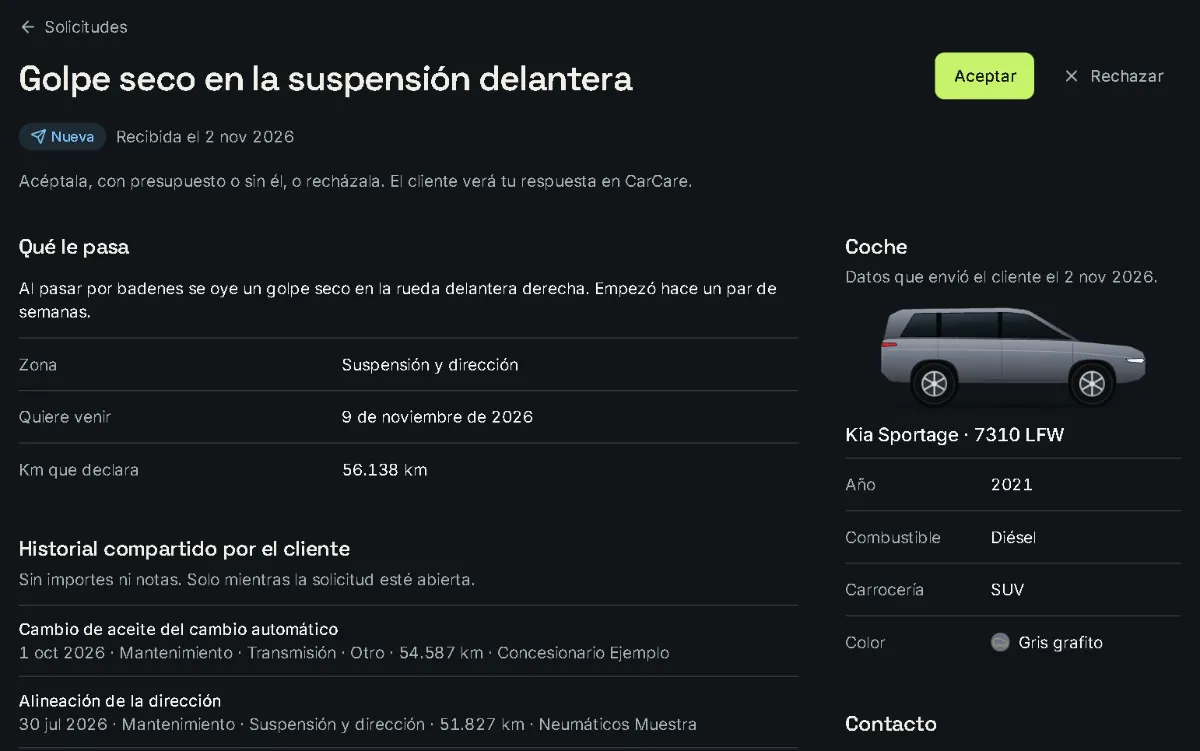
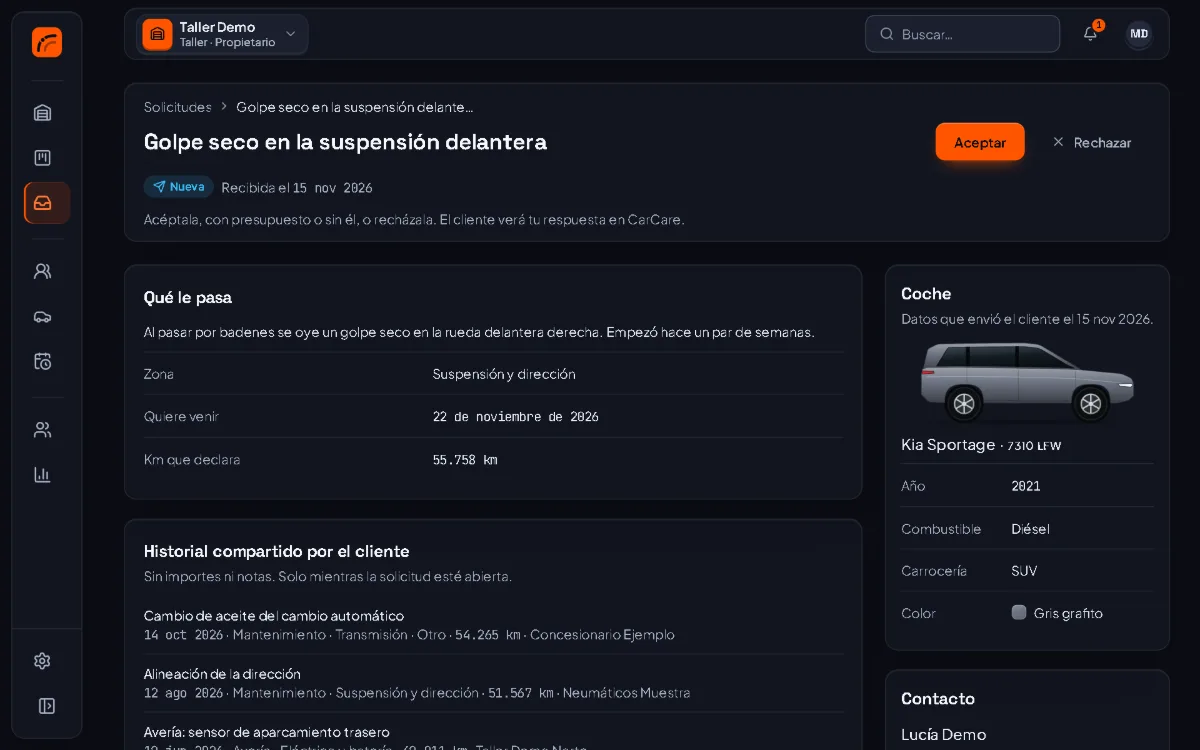
feat(portada): capturas rehechas con el aspecto «Apex Telemetry» y textos alternativos al día

diff --git a/frontend/src/features/landing/shots.ts b/frontend/src/features/landing/shots.ts
@@ -1,16 +1,17 @@
 /**
  * Capturas reales de la app (cuentas demo del DemoSeeder, datos ficticios) en `public/img/portada/`, en WebP de 1200
  * y 640 px de ancho y proporción 16:10. Se generaron con Playwright contra la API (tema oscuro, 1280 px, a 1,5x) y se
- * codificaron en WebP con el propio Chromium: ver el informe 2026-10-29-frontend-react-portada.
+ * codificaron en WebP con el propio Chromium: ver el informe 2026-10-29-frontend-react-portada. Rehechas el 16/11/2026
+ * con el aspecto «Apex Telemetry», sobre una demo recién sembrada (informe 2026-11-16-…-fase-4, `portada.mjs`).
  */
 export const SHOTS = {
   zonas: {
     file: 'particular-zonas',
-    alt: 'Ficha de un Kia Sportage en CarCare: el coche en 3D con un punto en cada zona y, al lado, la lista de zonas con su estado; el motor sale como «Próximo» y la mayoría «Sin datos» o «Sin recordatorio».',
+    alt: 'Ficha de un Kia Sportage en CarCare: el coche en 3D con un punto en cada zona y, al lado, la lista de las diez zonas con su estado; el motor sale como «Próximo», la general «En plazo» y las demás «Sin datos» o «Sin recordatorio».',
   },
   gastos: {
     file: 'particular-gastos',
-    alt: 'Pestaña Gastos de la ficha: total del año, coste por km y consumo medio arriba; debajo, un gráfico de barras por mes y un anillo por categoría con combustible, seguro, mantenimiento y reparación.',
+    alt: 'Pestaña Gastos de la ficha: total del año, coste por km y consumo medio arriba; debajo, un gráfico de barras por mes y un anillo por categoría con combustible, mantenimiento, reparación, aparcamiento y limpieza.',
   },
   tablero: {
     file: 'taller-tablero',
@@ -18,7 +19,7 @@ export const SHOTS = {
   },
   taller3d: {
     file: 'taller-3d',
-    alt: 'Vista Taller 3D: la nave con cuatro elevadores, tres ocupados y uno libre, y la zona de espera con coches de colores numerados; a la derecha, la misma información en una lista de elevadores y espera.',
+    alt: 'Taller en 3D: una maqueta de la nave de noche con cuatro elevadores, tres ocupados con su cronómetro en marcha, y la zona de espera con coches de colores; arriba, cuántos coches hay en el taller, en elevador, esperando, listos y con retraso; a la derecha, las órdenes que piden atención ahora.',
   },
   directorio: {
     file: 'solicitudes-directorio',
